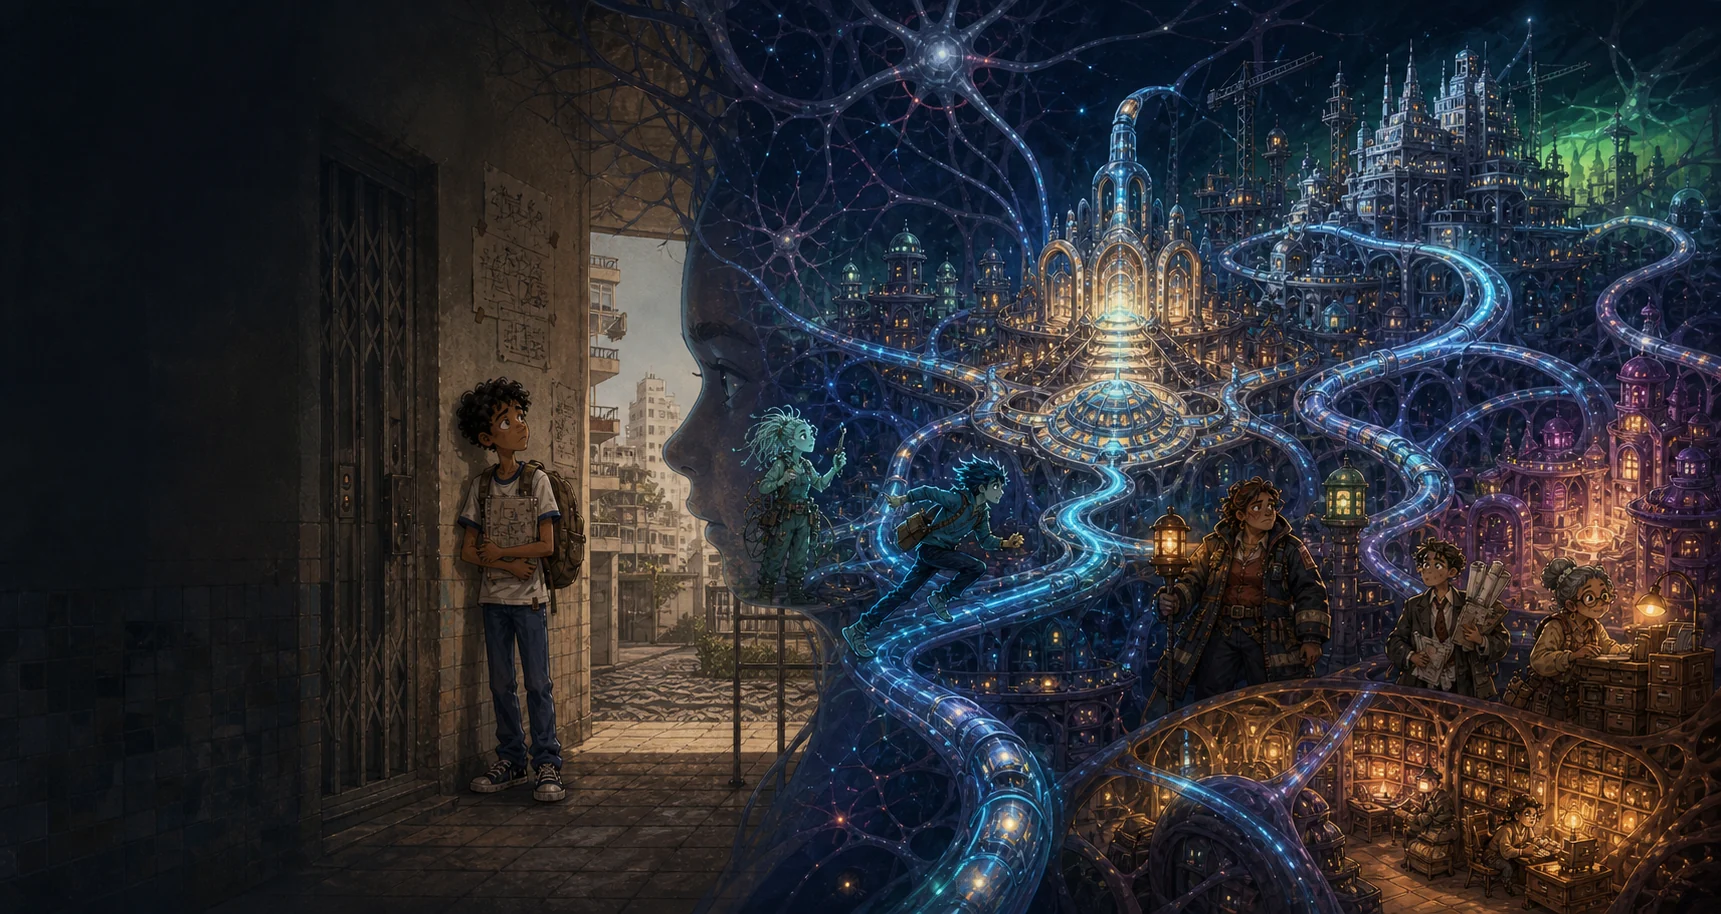
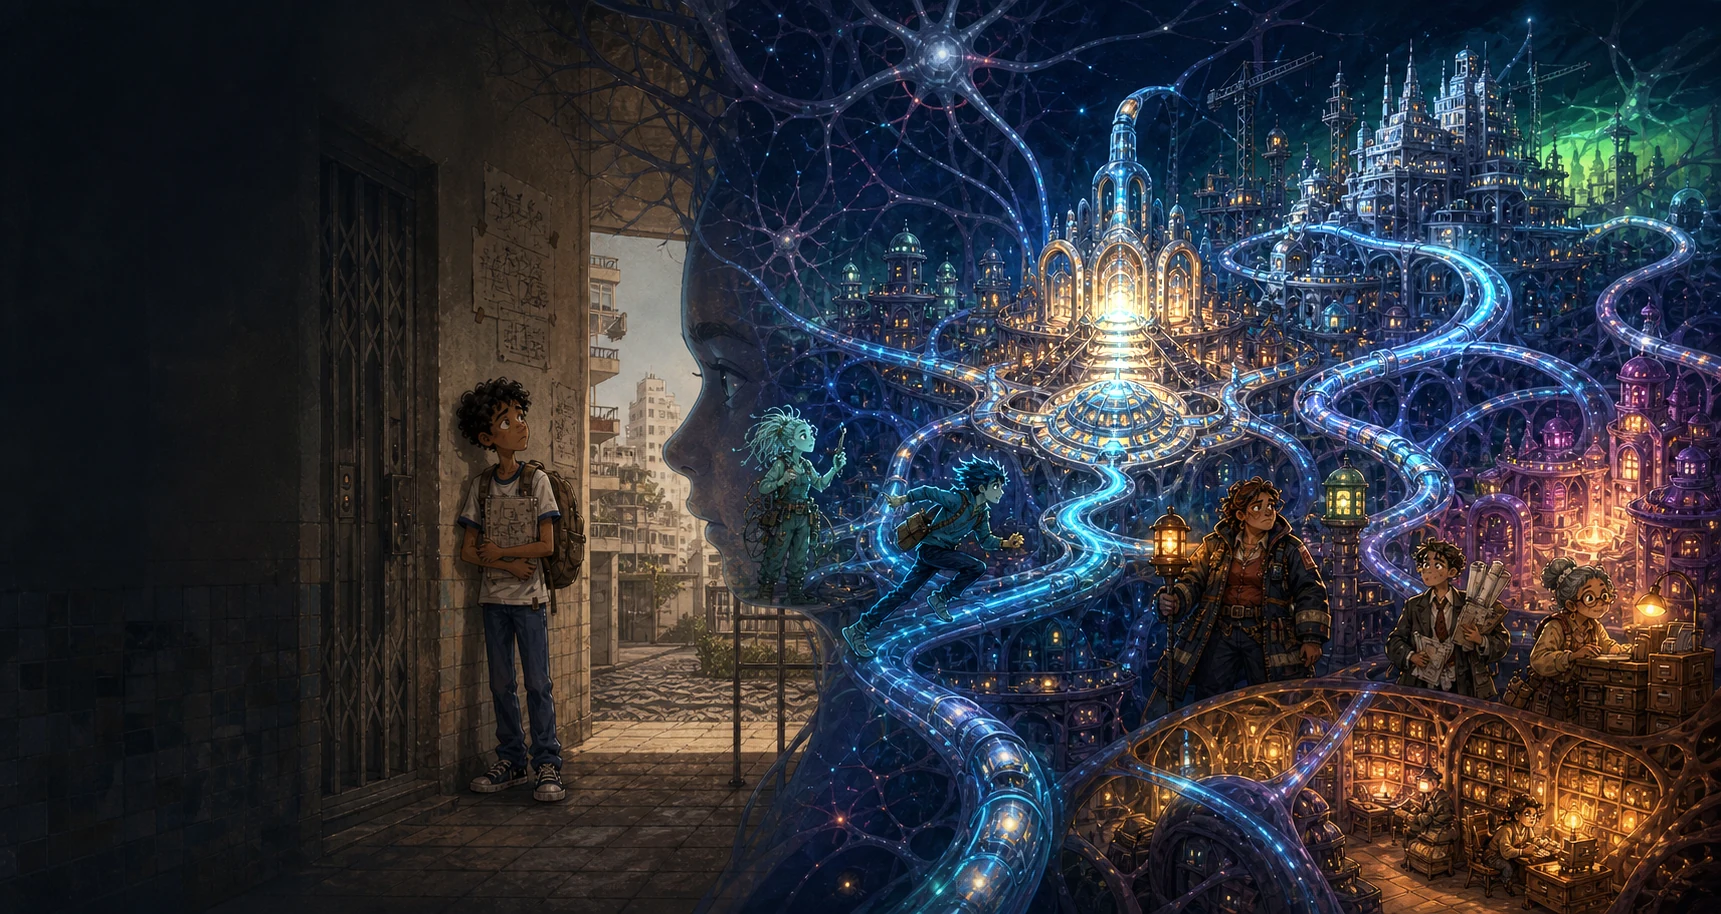
Melhora legibilidade do hero

diff --git a/index.html b/index.html
@@ -60,8 +60,8 @@
       '.hero-meta{color:#B9C1E9}\n'+
       '.hero-visual-bg{position:absolute;inset:0;z-index:0;pointer-events:none}\n'+
       '.hero-visual-bg picture,.hero-visual-bg img{display:block;width:100%;height:100%}\n'+
-      '.hero-visual-bg img{object-fit:cover;object-position:64% 50%;opacity:.48;filter:saturate(1.08) contrast(1.04)}\n'+
-      '.hero-visual-bg::after{content:"";position:absolute;inset:0;background:linear-gradient(90deg,rgba(9,12,24,.96) 0%,rgba(9,12,24,.82) 30%,rgba(9,12,24,.52) 68%,rgba(9,12,24,.78) 100%),linear-gradient(180deg,rgba(9,12,24,.45) 0%,rgba(9,12,24,.06) 45%,var(--night) 100%)}\n'+
+      '.hero-visual-bg img{object-fit:cover;object-position:64% 50%;opacity:.62;filter:saturate(1.12) contrast(1.08) brightness(1.06)}\n'+
+      '.hero-visual-bg::after{content:"";position:absolute;inset:0;background:linear-gradient(90deg,rgba(9,12,24,.96) 0%,rgba(9,12,24,.84) 28%,rgba(9,12,24,.34) 62%,rgba(9,12,24,.48) 100%),linear-gradient(180deg,rgba(9,12,24,.30) 0%,rgba(9,12,24,.03) 45%,rgba(9,12,24,.92) 100%)}\n'+
       '.map-stage{filter:drop-shadow(0 28px 58px rgba(0,0,0,.42))}\n'+
       '.cast-art{position:relative;display:block;width:100%;margin:-18px 0 34px;border:1px solid var(--line);border-radius:8px;overflow:hidden;background:var(--night-2)}\n'+
       '.cast-art img{display:block;width:100%;aspect-ratio:16/8.2;object-fit:cover;object-position:center;filter:saturate(1.04) contrast(1.02)}\n'+
@@ -74,7 +74,7 @@
       '.dive-art{position:relative;display:block;width:100%;border:1px solid var(--line);border-radius:8px;overflow:hidden;background:var(--deep);box-shadow:0 28px 70px rgba(0,0,0,.32)}\n'+
       '.dive-art img{display:block;width:100%;aspect-ratio:10/15.6;object-fit:cover;object-position:center;filter:saturate(1.05) contrast(1.03)}\n'+
       '.dive-art::after{content:"";position:absolute;inset:0;background:radial-gradient(80% 80% at 50% 36%,transparent 48%,rgba(5,6,14,.24) 100%);pointer-events:none}\n'+
-      '@media(max-width:900px){.hero-visual-bg img{object-position:70% 50%;opacity:.36}.dive-grid{grid-template-columns:1fr;gap:32px}.dive-art{max-width:520px;margin:0 auto}}\n'+
+      '@media(max-width:900px){.hero-visual-bg img{object-position:70% 50%;opacity:.50}.dive-grid{grid-template-columns:1fr;gap:32px}.dive-art{max-width:520px;margin:0 auto}}\n'+
       '</style>\n';
     return html.replace('</head>',patch+'</head>');
   }